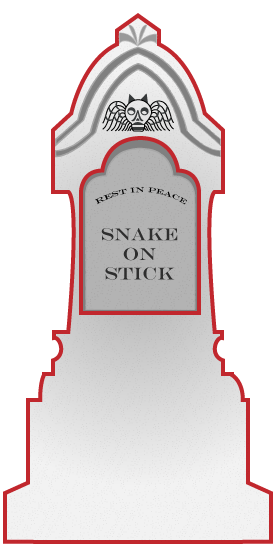
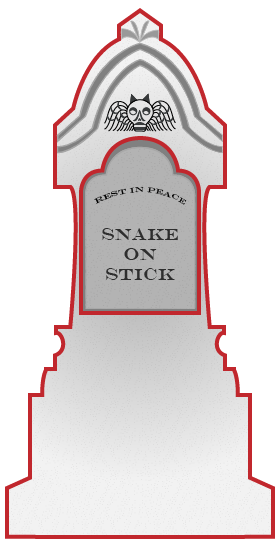
Perfected artwork

Changed region(s): [[0.0, 0.0, 1.0, 0.9714], [0.3714, 0.3946, 0.6286, 0.5161], [0.3429, 0.3339, 0.6571, 0.3643]]

diff --git a/index.html b/index.html
@@ -14,7 +14,7 @@
   <body>
 
     <div id="img_container">
-      <img src="Cat_graveyard_cover2.jpg" class="img-responsive" alt="Cover image">
+      <img src="Cat_graveyard_final.png" class="img-responsive" alt="Cover image">
       <a href="#"><img src="about_link1.png" onmouseover="this.src='about_link1_hover.png'" onmouseout="this.src='about_link1.png'" class="img-responsive" alt="about link" data-toggle="modal" data-target="#about"></a>
     </div>
 
